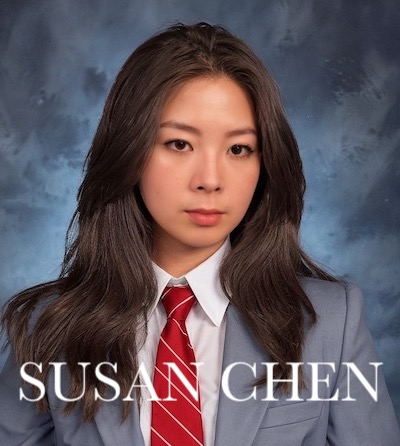
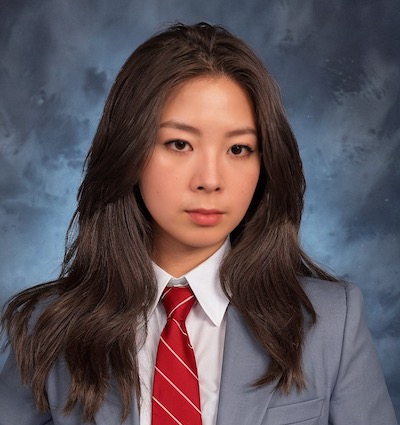
swapped out rasterized text for positioned text

diff --git a/style.css b/style.css
@@ -22,6 +22,7 @@ header {
 }
 
 .hero {
+  position: relative;
   justify-self: end;
   /* background-color: gold; */
   display: flex;
@@ -33,6 +34,13 @@ header {
 picture > img,
 picture > source {
   box-shadow: 3px 3px 6px rgb(177, 176, 176);
+}
+
+.name {
+  position: absolute;
+  bottom: -70px;
+  font-size: 80px;
+  color: white;
 }
 
 .about-me-text {
@@ -124,6 +132,13 @@ section {
     align-items: center;
     margin: 0px;
     /* background-color: aqua; */
+  }
+
+  .name {
+    font-size: 100px;
+    text-align: center;
+    bottom: -80px;
+    line-height: 0.75;
   }
 
   .about-me-text {

diff --git a/index.html b/index.html
@@ -15,6 +15,7 @@
             <source media="(min-width: 500px)" srcset="portrait-big.jpg" />
             <img src="portrait-big.jpg" />
           </picture>
+          <p class="name">Susan Chen</p>
         </div>
 
         <div class="about-me-text">
